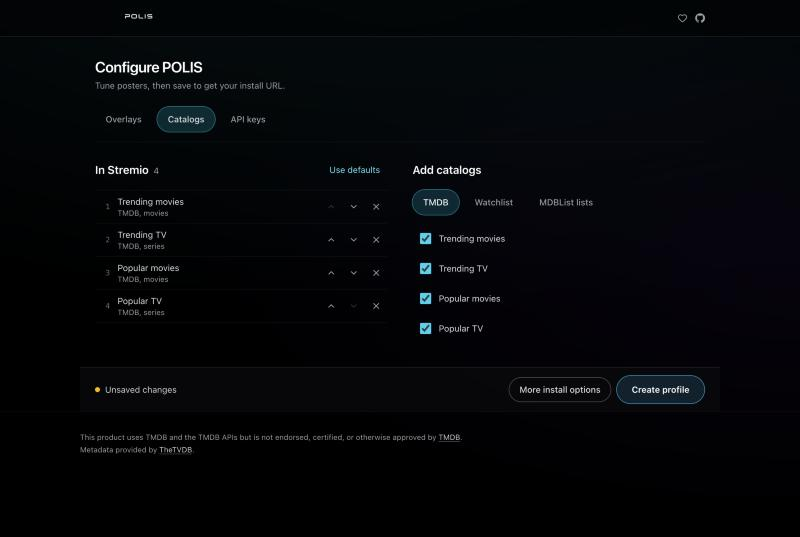
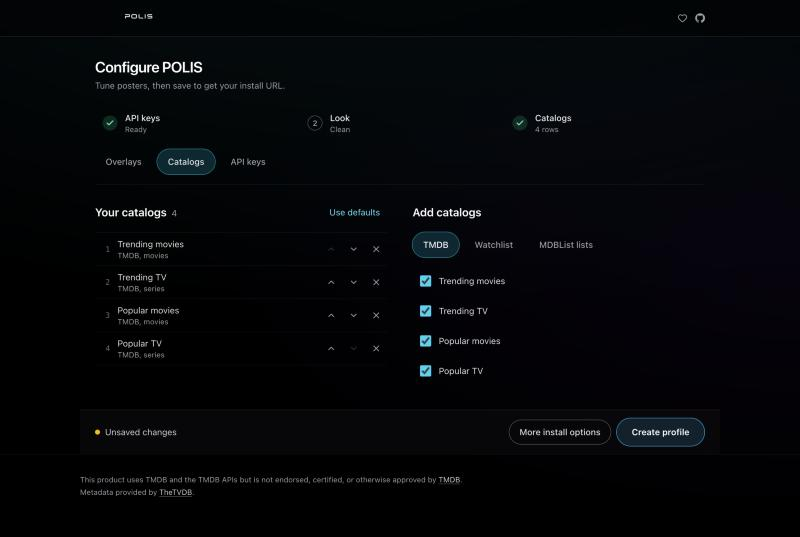
fix(configure): call the catalog list Your catalogs

diff --git a/lib/site-seo.ts b/lib/site-seo.ts
@@ -52,14 +52,14 @@ export const rootMetadata: Metadata = {
 export const setupPageMetadata: Metadata = {
   title: "Setup",
   description:
-    "Configure API keys, overlay options, and catalogs. Copy your addon install URL or AIOMetadata art patterns for Aurora and Stremio.",
+    "Configure API keys, overlay options, and catalogs. Copy your install URL or AIOMetadata art patterns.",
   alternates: {
     canonical: "/configure",
   },
   openGraph: {
     title: `Setup | ${SITE_NAME}`,
     description:
-      "Configure API keys, overlay options, and catalogs. Copy your addon install URL or AIOMetadata art patterns for Aurora and Stremio.",
+      "Configure API keys, overlay options, and catalogs. Copy your install URL or AIOMetadata art patterns.",
     url: "/configure",
   },
 };
@@ -67,14 +67,14 @@ export const setupPageMetadata: Metadata = {
 export const configurePageMetadata: Metadata = {
   title: "Configure",
   description:
-    "Configure API keys, overlay options, and catalogs. Save your profile with a password and install the Stremio addon.",
+    "Configure API keys, overlay options, and catalogs. Save your profile with a password and copy your install URL.",
   alternates: {
     canonical: "/configure",
   },
   openGraph: {
     title: `Configure | ${SITE_NAME}`,
     description:
-      "Configure API keys, overlay options, and catalogs. Save your profile with a password and install the Stremio addon.",
+      "Configure API keys, overlay options, and catalogs. Save your profile with a password and copy your install URL.",
     url: "/configure",
   },
 };

diff --git a/components/setup/setup-catalogs-panel.tsx b/components/setup/setup-catalogs-panel.tsx
@@ -262,7 +262,7 @@ export function SetupCatalogsPanel(props: {
             ref={selectedHeadingRef}
             tabIndex={-1}
           >
-            In Stremio
+            Your catalogs
             <span className="ml-2 text-sm font-normal tabular-nums text-zinc-400">
               {props.selected.length}
               <span className="sr-only"> {props.selected.length === 1 ? "row" : "rows"}</span>

diff --git a/README.md b/README.md
@@ -16,7 +16,7 @@ Poster overlays for Stremio, Aurora Media Center and AIOMetadata: ratings, trend
 
 | Catalogs | Phone |
 | --- | --- |
-| <img src="docs/images/catalogs.jpg" alt="The Catalogs tab with four TMDB rows in order and the sources to add more"> | <img src="docs/images/phone.jpg" width="260" alt="The configure page at phone width"> |
+| <img src="docs/images/catalogs.jpg" alt="The Catalogs tab with four TMDB catalogs in order and the sources to add more"> | <img src="docs/images/phone.jpg" width="260" alt="The configure page at phone width"> |
 
 ## What it does
 
